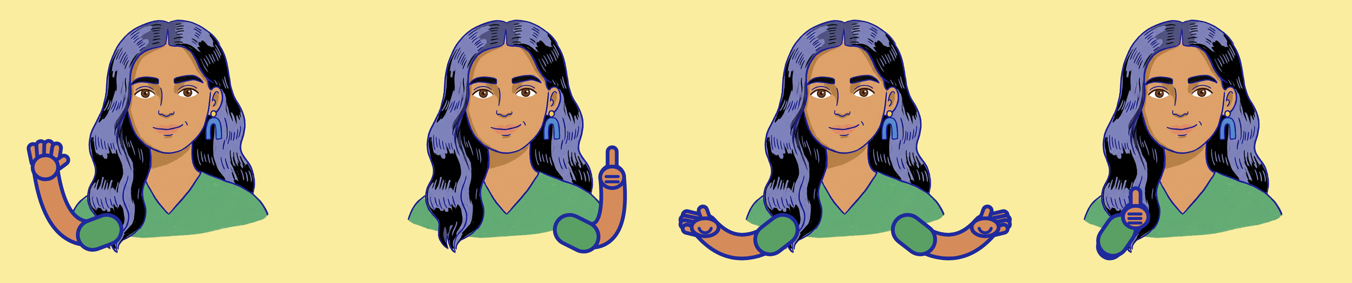
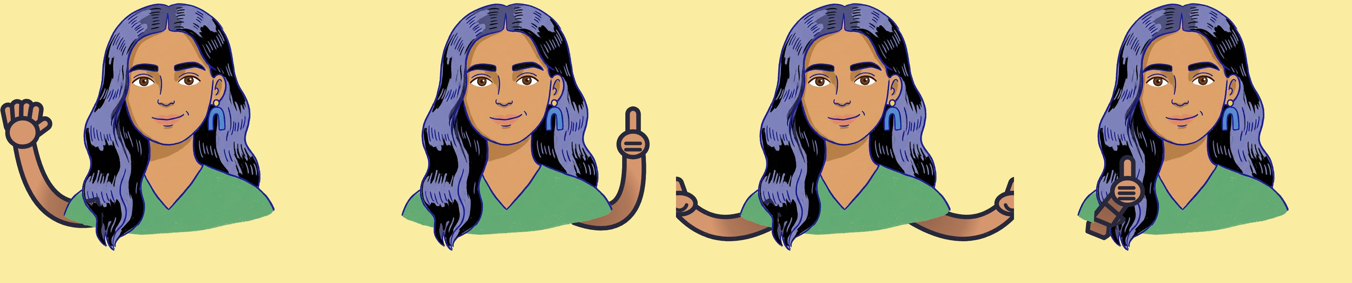
fix: bendy arms tuck under the doodle's own sleeve; no shoulder caps
- remove the separate sleeve cap stroke drawn at each tapped shoulder
- arm is one tapered fill (no round shoulder cap), root shaded; the doodle's shirt pixels
  around the shoulder are drawn back over it so the joint never shows; forearm + hand
  redrawn on top so crossing gestures stay visible
- refresh docs/bendy-arms.png

Changed region(s): [[0.2796, 0.0, 0.963, 0.9329], [0.0, 0.0, 0.2175, 0.9046], [0.9009, 0.7915, 0.932, 0.8198]]

diff --git a/index.html b/index.html
@@ -715,7 +715,7 @@ function drawChar(k,cx,s,avail,t,lvl,shape,blinking,idx,gs){
   else if(gOn&&hasArms)gestureStep(gs,t,lvl>0.12||shape!=="rest",ARM_POSES);
   ctx.drawImage(body,0,0);
   const P=c.patches;
-  if(gOn&&hasArms)drawArms(c.custom,gs,t);
+  if(gOn&&hasArms)drawArms(c.custom,gs,t,body);
   if(c.custom)drawCustom(c,shape,blinking);
   if(shape!=="rest"&&im[shape]&&P[shape]){const p=P[shape];ctx.drawImage(im[shape],p.x,p.y,p.w,p.h);}
   if(blinking&&im.blink&&P.blink){const p=P.blink;ctx.drawImage(im.blink,p.x,p.y,p.w,p.h);}
@@ -734,23 +734,59 @@ const ARM_POSES={wave:1,point:1,open:1,thumbs:1};
 const ARM_DEF={wave:{L:[[0.4,0.15],[0.5,-0.5],"palm"]},point:{R:[[0.4,0.2],[0.34,-0.42],"point"]},
   open:{L:[[0.36,0.28],[0.62,-0.02],"up"],R:[[0.36,0.28],[0.62,-0.02],"up"]},thumbs:{L:[[0.22,0.32],[-0.12,-0.12],"thumb"]}};
 const ARM_REST=[[0.14,0.65],[0.18,1.35]];
-function drawArms(R,gs,t){if(gs.a<0.02||!gs.last)return;const def=ARM_DEF[gs.last];if(!def)return;
+// The sleeve belongs to the drawing, never to the arm: the arm is one tapered stroke-free shape that
+// starts UNDER the doodle's own sleeve (the shirt pixels around the tapped shoulder are drawn back
+// over its root, with a soft hem shadow), so no shoulder ball or cap ever pops out.
+function sleeveCover(R,body){if(R._cover&&R._coverSrc===body)return R._cover;
+  const W=body.width,H=body.height,bx=body.getContext?body.getContext("2d"):null;let src=body;
+  if(!bx){src=document.createElement("canvas");src.width=W;src.height=H;src.getContext("2d").drawImage(body,0,0);}
+  const sd=(src.getContext("2d")).getImageData(0,0,W,H).data;
+  const [SL,SR]=R.shoulders,d=Math.hypot(SR.x-SL.x,SR.y-SL.y),rr=d*0.3,lw=Math.max(3,d*0.03);
+  const out=document.createElement("canvas");out.width=W;out.height=H;const og=out.getContext("2d"),od=og.createImageData(W,H);
+  const m=new Uint8Array(W*H);
+  const pc=c=>c.match(/\d+/g).map(Number);
+  [SL,SR].forEach((S,k)=>{const sc=pc((R.sleeves&&R.sleeves[k])||R.skin);
+    const x0=Math.max(0,S.x-rr|0),x1=Math.min(W-1,S.x+rr|0),y0=Math.max(0,S.y-rr|0),y1=Math.min(H-1,S.y+rr|0);
+    for(let y=y0;y<=y1;y++)for(let x=x0;x<=x1;x++){const dd=Math.hypot(x-S.x,y-S.y);if(dd>rr)continue;const q=(y*W+x)*4;
+      if(sd[q+3]>200&&Math.hypot(sd[q]-sc[0],sd[q+1]-sc[1],sd[q+2]-sc[2])<70)m[y*W+x]=1;}});
+  // keep the shirt's own ink: dark pixels next to the shirt
+  const r=Math.ceil(lw*1.2),m2=m.slice();
+  for(let y=0;y<H;y++)for(let x=0;x<W;x++){if(m[y*W+x])continue;const q=(y*W+x)*4;if(sd[q+3]<200||sd[q]+sd[q+1]+sd[q+2]>330)continue;
+    let near=false;for(let dy=-r;dy<=r&&!near;dy+=1)for(let dx=-r;dx<=r&&!near;dx+=1){const xx=x+dx,yy=y+dy;if(xx>=0&&yy>=0&&xx<W&&yy<H&&m[yy*W+xx])near=true;}
+    if(near)m2[y*W+x]=1;}
+  for(let i=0;i<W*H;i++)if(m2[i]){od.data[i*4]=sd[i*4];od.data[i*4+1]=sd[i*4+1];od.data[i*4+2]=sd[i*4+2];od.data[i*4+3]=255;}
+  og.putImageData(od,0,0);R._cover=out;R._coverSrc=body;R._mask=m;return out;}
+function taperPath(S,E,H,w0,w1){const pts=[],N=24;
+  for(let i=0;i<=N;i++){const k=i/N,m=1-k;pts.push({x:m*m*S.x+2*m*k*E.x+k*k*H.x,y:m*m*S.y+2*m*k*E.y+k*k*H.y});}
+  const L=[],Rr=[];for(let i=0;i<pts.length;i++){const a=pts[Math.max(0,i-1)],b=pts[Math.min(pts.length-1,i+1)];let nx=-(b.y-a.y),ny=b.x-a.x;const l=Math.hypot(nx,ny)||1;nx/=l;ny/=l;
+    const w=(w0+(w1-w0)*i/N)/2;L.push({x:pts[i].x+nx*w,y:pts[i].y+ny*w});Rr.push({x:pts[i].x-nx*w,y:pts[i].y-ny*w});}
+  return()=>{ctx.beginPath();ctx.moveTo(L[0].x,L[0].y);for(const p of L)ctx.lineTo(p.x,p.y);const e=pts[N],an=Math.atan2(e.y-pts[N-1].y,e.x-pts[N-1].x);
+    ctx.arc(e.x,e.y,w1/2,an-Math.PI/2,an+Math.PI/2);for(let i=Rr.length-1;i>=0;i--)ctx.lineTo(Rr[i].x,Rr[i].y);ctx.closePath();};}
+function drawArms(R,gs,t,body){if(gs.a<0.02||!gs.last)return;const def=ARM_DEF[gs.last];if(!def)return;
   const [SL,SR]=R.shoulders,d=Math.hypot(SR.x-SL.x,SR.y-SL.y),e=gs.a*gs.a*(3-2*gs.a);
   const lw=Math.max(3,d*0.03),thick=d*0.16;
+  const cover=body?sleeveCover(R,body):null;
   for(const side of ["L","R"]){const a=def[side];if(!a)continue;const S=side==="L"?SL:SR,sx=side==="L"?-1:1;
     const mix=(p,q)=>[p[0]+(q[0]-p[0])*e,p[1]+(q[1]-p[1])*e];
     const el=mix(ARM_REST[0],a[0]),hd=mix(ARM_REST[1],a[1]);
     let wig=gs.last==="wave"?Math.sin(t*11)*0.06*e:0;
     const E={x:S.x+sx*el[0]*d,y:S.y+el[1]*d},H={x:S.x+sx*(hd[0]+wig)*d,y:S.y+hd[1]*d};
-    const sleeve=(R.sleeves&&R.sleeves[side==="L"?0:1])||R.skin;
-    ctx.save();ctx.lineCap="round";ctx.lineJoin="round";
-    const path=()=>{ctx.beginPath();ctx.moveTo(S.x,S.y);ctx.quadraticCurveTo(E.x,E.y,H.x,H.y);};
-    path();ctx.strokeStyle=R.ink;ctx.lineWidth=thick+lw*2;ctx.stroke();
-    path();ctx.strokeStyle=R.skin;ctx.lineWidth=thick;ctx.stroke();
-    // sleeve cap
-    ctx.beginPath();ctx.moveTo(S.x,S.y);const m={x:S.x+(E.x-S.x)*0.28,y:S.y+(E.y-S.y)*0.28};ctx.lineTo(m.x,m.y);
-    ctx.strokeStyle=R.ink;ctx.lineWidth=thick*1.3+lw*2;ctx.stroke();ctx.strokeStyle=sleeve;ctx.lineWidth=thick*1.3;ctx.stroke();
-    drawHand(H,a[2],sx,d,R,lw,Math.atan2(H.y-E.y,H.x-E.x),wig);ctx.restore();}}
+    // the root sits a little inside the shoulder, under the sleeve
+    const S0={x:S.x-sx*d*0.03,y:S.y+d*0.03};
+    const arm=taperPath(S0,E,H,thick*1.05,thick*0.78);
+    const draw=()=>{ctx.save();ctx.lineCap="round";ctx.lineJoin="round";
+      arm();ctx.fillStyle=R.skin;ctx.fill();
+      ctx.save();arm();ctx.clip();const g=ctx.createRadialGradient(S.x,S.y,0,S.x,S.y,d*0.42);
+      g.addColorStop(0,"rgba(60,30,25,.45)");g.addColorStop(0.75,"rgba(60,30,25,.25)");g.addColorStop(1,"rgba(60,30,25,0)");ctx.fillStyle=g;ctx.fillRect(S.x-d,S.y-d,2*d,2*d);ctx.restore();
+      arm();ctx.lineWidth=lw;ctx.strokeStyle=R.ink;ctx.stroke();
+      drawHand(H,a[2],sx,d,R,lw,Math.atan2(H.y-E.y,H.x-E.x),wig);ctx.restore();};
+    draw();
+    if(cover){ // the doodle's own sleeve over the arm root, then the forearm + hand on top again
+      ctx.save();ctx.beginPath();ctx.arc(S.x,S.y,d*0.31,0,7);ctx.clip();ctx.drawImage(cover,0,0);ctx.restore();
+      ctx.save();const f={x:E.x-(H.x-E.x)*0.05,y:E.y-(H.y-E.y)*0.05},an=Math.atan2(H.y-f.y,H.x-f.x),rad=thick*0.9;
+      ctx.beginPath();ctx.arc(H.x,H.y,d*0.26,an-Math.PI/2,an+Math.PI/2);ctx.lineTo(f.x+Math.cos(an-Math.PI/2)*rad,f.y+Math.sin(an-Math.PI/2)*rad);ctx.lineTo(f.x+Math.cos(an+Math.PI/2)*rad,f.y+Math.sin(an+Math.PI/2)*rad);ctx.closePath();ctx.clip();
+      draw();ctx.restore();}
+  }}
 function drawHand(H,type,sx,d,R,lw,ang,wig){const r=d*0.12;ctx.save();ctx.translate(H.x,H.y);
   const blob=(x,y,w,h,rot=0)=>{ctx.beginPath();ctx.ellipse(x,y,w,h,rot,0,7);ctx.fillStyle=R.skin;ctx.fill();ctx.lineWidth=lw;ctx.strokeStyle=R.ink;ctx.stroke();};
   const finger=(x1,y1,x2,y2,w)=>{ctx.lineCap="round";ctx.beginPath();ctx.moveTo(x1,y1);ctx.lineTo(x2,y2);ctx.strokeStyle=R.ink;ctx.lineWidth=w+lw*2;ctx.stroke();ctx.strokeStyle=R.skin;ctx.lineWidth=w;ctx.stroke();};

diff --git a/README.md b/README.md
@@ -59,7 +59,7 @@ Switch it off any time in Style.
 
 1. Tap **＋ Your doodle** and pick a drawing. A plain background is removed automatically. Untick it if it eats part of your art.
 2. **Tap the mouth** (or drag a box over it), then tap both eyes so it can blink.
-3. **Tap both shoulders** for bendy cartoon arms in your doodle's own skin, sleeve, and ink colours:
+3. **Tap both shoulders** for bendy cartoon arms in your doodle's own skin and ink colours. Each arm tapers smoothly and starts *under* your drawing's own sleeve, so there is no puppet shoulder ball:
 
 <p align="center"><img src="docs/bendy-arms.png" alt="Bendy arms preview" width="90%"></p>
 
